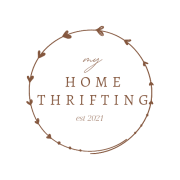
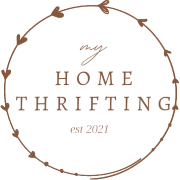
Latest build

diff --git a/index.html b/index.html
@@ -54,7 +54,7 @@ MyHomeThrifting
 <div class=about>
 <picture class=logo>
 <source srcset=images/logo-placeholder.webp data-srcset=images/logo.webp type=image/webp>
-<img src=images/logo-placeholder.png data-src=images/logo.png type=image/png alt=logo loading=lazy width=500 height=500>
+<img src=images/logo-placeholder.png data-src=images/logo.png type=image/png alt=logo loading=lazy width=357 height=357>
 </picture>
 <h1>MyHomeThrifting</h1>
 <h2>Handpicked pieces I want in My Home - and now yours.</h2>
@@ -74,8 +74,6 @@ MyHomeThrifting
 ©
 2021
 MyHomeThrifting
-·
-Powered by <a href=https://gohugo.io/>Hugo</a>.
 </section>
 </footer>
 </main>

diff --git a/404.html b/404.html
@@ -62,8 +62,6 @@ MyHomeThrifting
 ©
 2021
 MyHomeThrifting
-·
-Powered by <a href=https://gohugo.io/>Hugo</a>.
 </section>
 </footer>
 </main>

diff --git a/categories/index.html b/categories/index.html
@@ -63,8 +63,6 @@ MyHomeThrifting
 ©
 2021
 MyHomeThrifting
-·
-Powered by <a href=https://gohugo.io/>Hugo</a>.
 </section>
 </footer>
 </main>

diff --git a/series/index.html b/series/index.html
@@ -63,8 +63,6 @@ MyHomeThrifting
 ©
 2021
 MyHomeThrifting
-·
-Powered by <a href=https://gohugo.io/>Hugo</a>.
 </section>
 </footer>
 </main>

diff --git a/tags/index.html b/tags/index.html
@@ -63,8 +63,6 @@ MyHomeThrifting
 ©
 2021
 MyHomeThrifting
-·
-Powered by <a href=https://gohugo.io/>Hugo</a>.
 </section>
 </footer>
 </main>

diff --git a/about/index.html b/about/index.html
@@ -71,8 +71,6 @@ About
 ©
 2021
 MyHomeThrifting
-·
-Powered by <a href=https://gohugo.io/>Hugo</a>.
 </section>
 </footer>
 </main>
